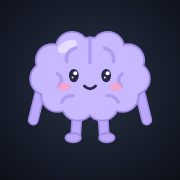
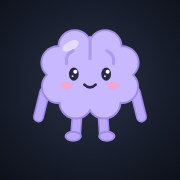
Pal: more minimal and narrower (4 lobes per side, fissure + one fold each side)
Claude-Session: https://claude.ai/code/session_01NENw22NRLju7qRwaXWFpgL

diff --git a/src/lib/pal.ts b/src/lib/pal.ts
@@ -54,8 +54,8 @@ const f = (n: number) => Math.round(n * 10) / 10
 
 // silhouette: a chubby brain seen from the front: two hemispheres made of soft round lobes, a notch at the top and bottom
 type Blob = readonly [number, number, number]
-const bump = (deg: number, side: 1 | -1): Blob => { const a = (deg * Math.PI) / 180; return [f(100 + side * 54 * Math.cos(a)), f(76 + 37 * Math.sin(a)), 19] }
-const BLOBS: Blob[] = [...[-66, -30, 6, 42, 74].flatMap(d => [bump(d, 1), bump(d, -1)]), [100, 76, 46]]
+const bump = (deg: number, side: 1 | -1): Blob => { const a = (deg * Math.PI) / 180; return [f(100 + side * 43 * Math.cos(a)), f(76 + 38 * Math.sin(a)), 19] }
+const BLOBS: Blob[] = [...[-64, -22, 24, 66].flatMap(d => [bump(d, 1), bump(d, -1)]), [100, 76, 40]]
 const circles = (extra: number) => BLOBS.map(([x, y, r]) => `<circle cx="${x}" cy="${y}" r="${f(r + extra)}"/>`).join('')
 
 function limb(x0: number, y0: number, angle: number, len: number, side: -1 | 1, name: string) {
@@ -127,16 +127,14 @@ export function poseSpec(name: PoseName): PoseSpec { return { ...BASE, ...(POSES
 export function palBody(name: PoseName): string {
   const p = poseSpec(name)
   const shoulderY = 98
-  const arms = limb(38, shoulderY, p.armL, 34, -1, 'arm armL') + limb(162, shoulderY, p.armR, 34, 1, 'arm armR')
+  const arms = limb(44, shoulderY, p.armL, 32, -1, 'arm armL') + limb(156, shoulderY, p.armR, 32, 1, 'arm armR')
   const body = `<g fill="${C.edge}">${circles(2.4)}</g><g fill="${C.body}">${circles(0)}</g>
-    <g fill="${C.hi}" opacity=".75"><ellipse cx="72" cy="40" rx="13" ry="6.5" transform="rotate(-28 72 40)"/></g>
-    <g fill="none" stroke="${C.fold}" stroke-width="4.2" stroke-linecap="round" stroke-linejoin="round">
-      <path d="M100 30v30"/>
-      <path d="M118 42q13 4 11 17"/><path d="M82 42q-13 4 -11 17"/>
-      <path d="M140 74q-9 6 -1 15"/><path d="M60 74q9 6 1 15"/>
-      <path d="M121 101q10 -1 14 8"/><path d="M79 101q-10 -1 -14 8"/>
+    <g fill="${C.hi}" opacity=".75"><ellipse cx="76" cy="41" rx="11" ry="5.5" transform="rotate(-28 76 41)"/></g>
+    <g fill="none" stroke="${C.fold}" stroke-width="4" stroke-linecap="round" stroke-linejoin="round">
+      <path d="M100 31v26"/>
+      <path d="M121 47q10 5 8 16"/><path d="M79 47q-10 5 -8 16"/>
     </g>`
-  const face = `<ellipse cx="68" cy="90" rx="8" ry="5" fill="${C.cheek}" opacity=".7"/><ellipse cx="132" cy="90" rx="8" ry="5" fill="${C.cheek}" opacity=".7"/>${brows(p.brows)}<g class="eyes">${eyes(p.eyes)}</g>${mouth(p.mouth)}`
+  const face = `<ellipse cx="71" cy="90" rx="7.5" ry="4.8" fill="${C.cheek}" opacity=".7"/><ellipse cx="129" cy="90" rx="7.5" ry="4.8" fill="${C.cheek}" opacity=".7"/>${brows(p.brows)}<g class="eyes">${eyes(p.eyes)}</g>${mouth(p.mouth)}`
   const cx = 100, cy = 100
   const t = `translate(0 ${p.dy}) translate(${cx} ${cy + 20}) rotate(${p.tilt}) scale(${p.scale}) translate(${-cx} ${-(cy + 20)})`
   return `<g class="pal-fig" transform="${t}">${legs(p.legs)}${arms}${body}${face}</g>${p.extras.map(extra).join('')}`
@@ -154,7 +152,7 @@ export function iconSvg(): string {
   return `<svg xmlns="http://www.w3.org/2000/svg" viewBox="0 0 512 512">
   <defs><radialGradient id="bg" cx=".5" cy=".46" r=".72"><stop offset="0" stop-color="#2a3347"/><stop offset=".6" stop-color="#171d2b"/><stop offset="1" stop-color="#0d111a"/></radialGradient></defs>
   <rect width="512" height="512" fill="url(#bg)"/>
-  <g transform="translate(26 40) scale(2.3)">${palBody('idle')}</g>
+  <g transform="translate(26 36) scale(2.3)">${palBody('idle')}</g>
 </svg>
 `
 }
